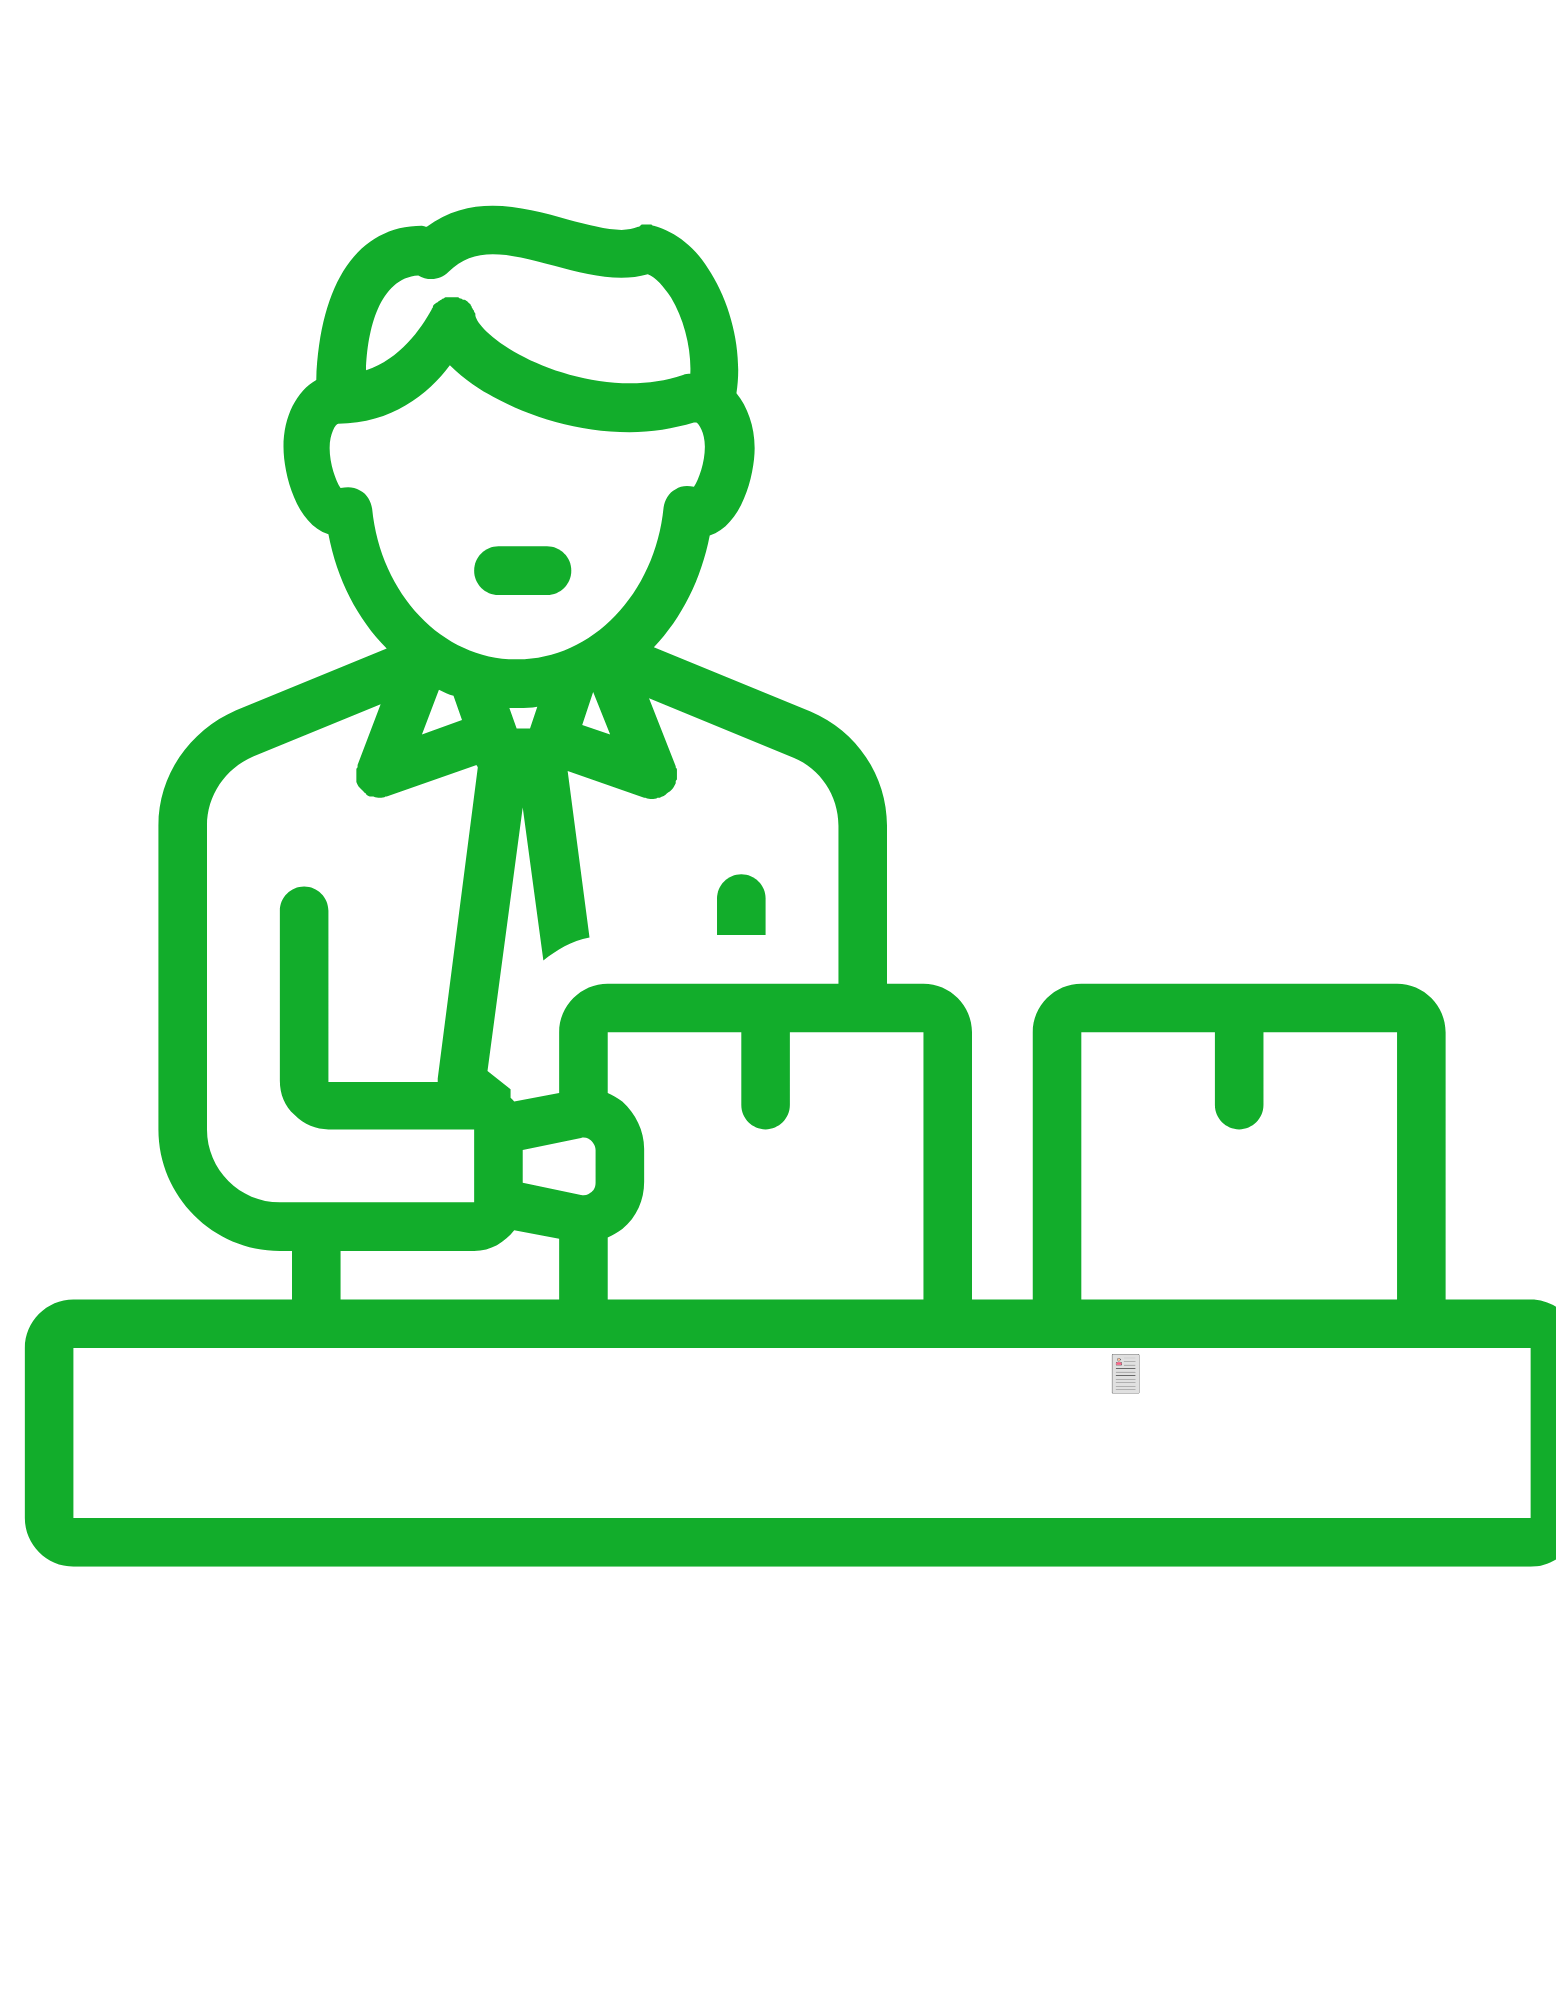
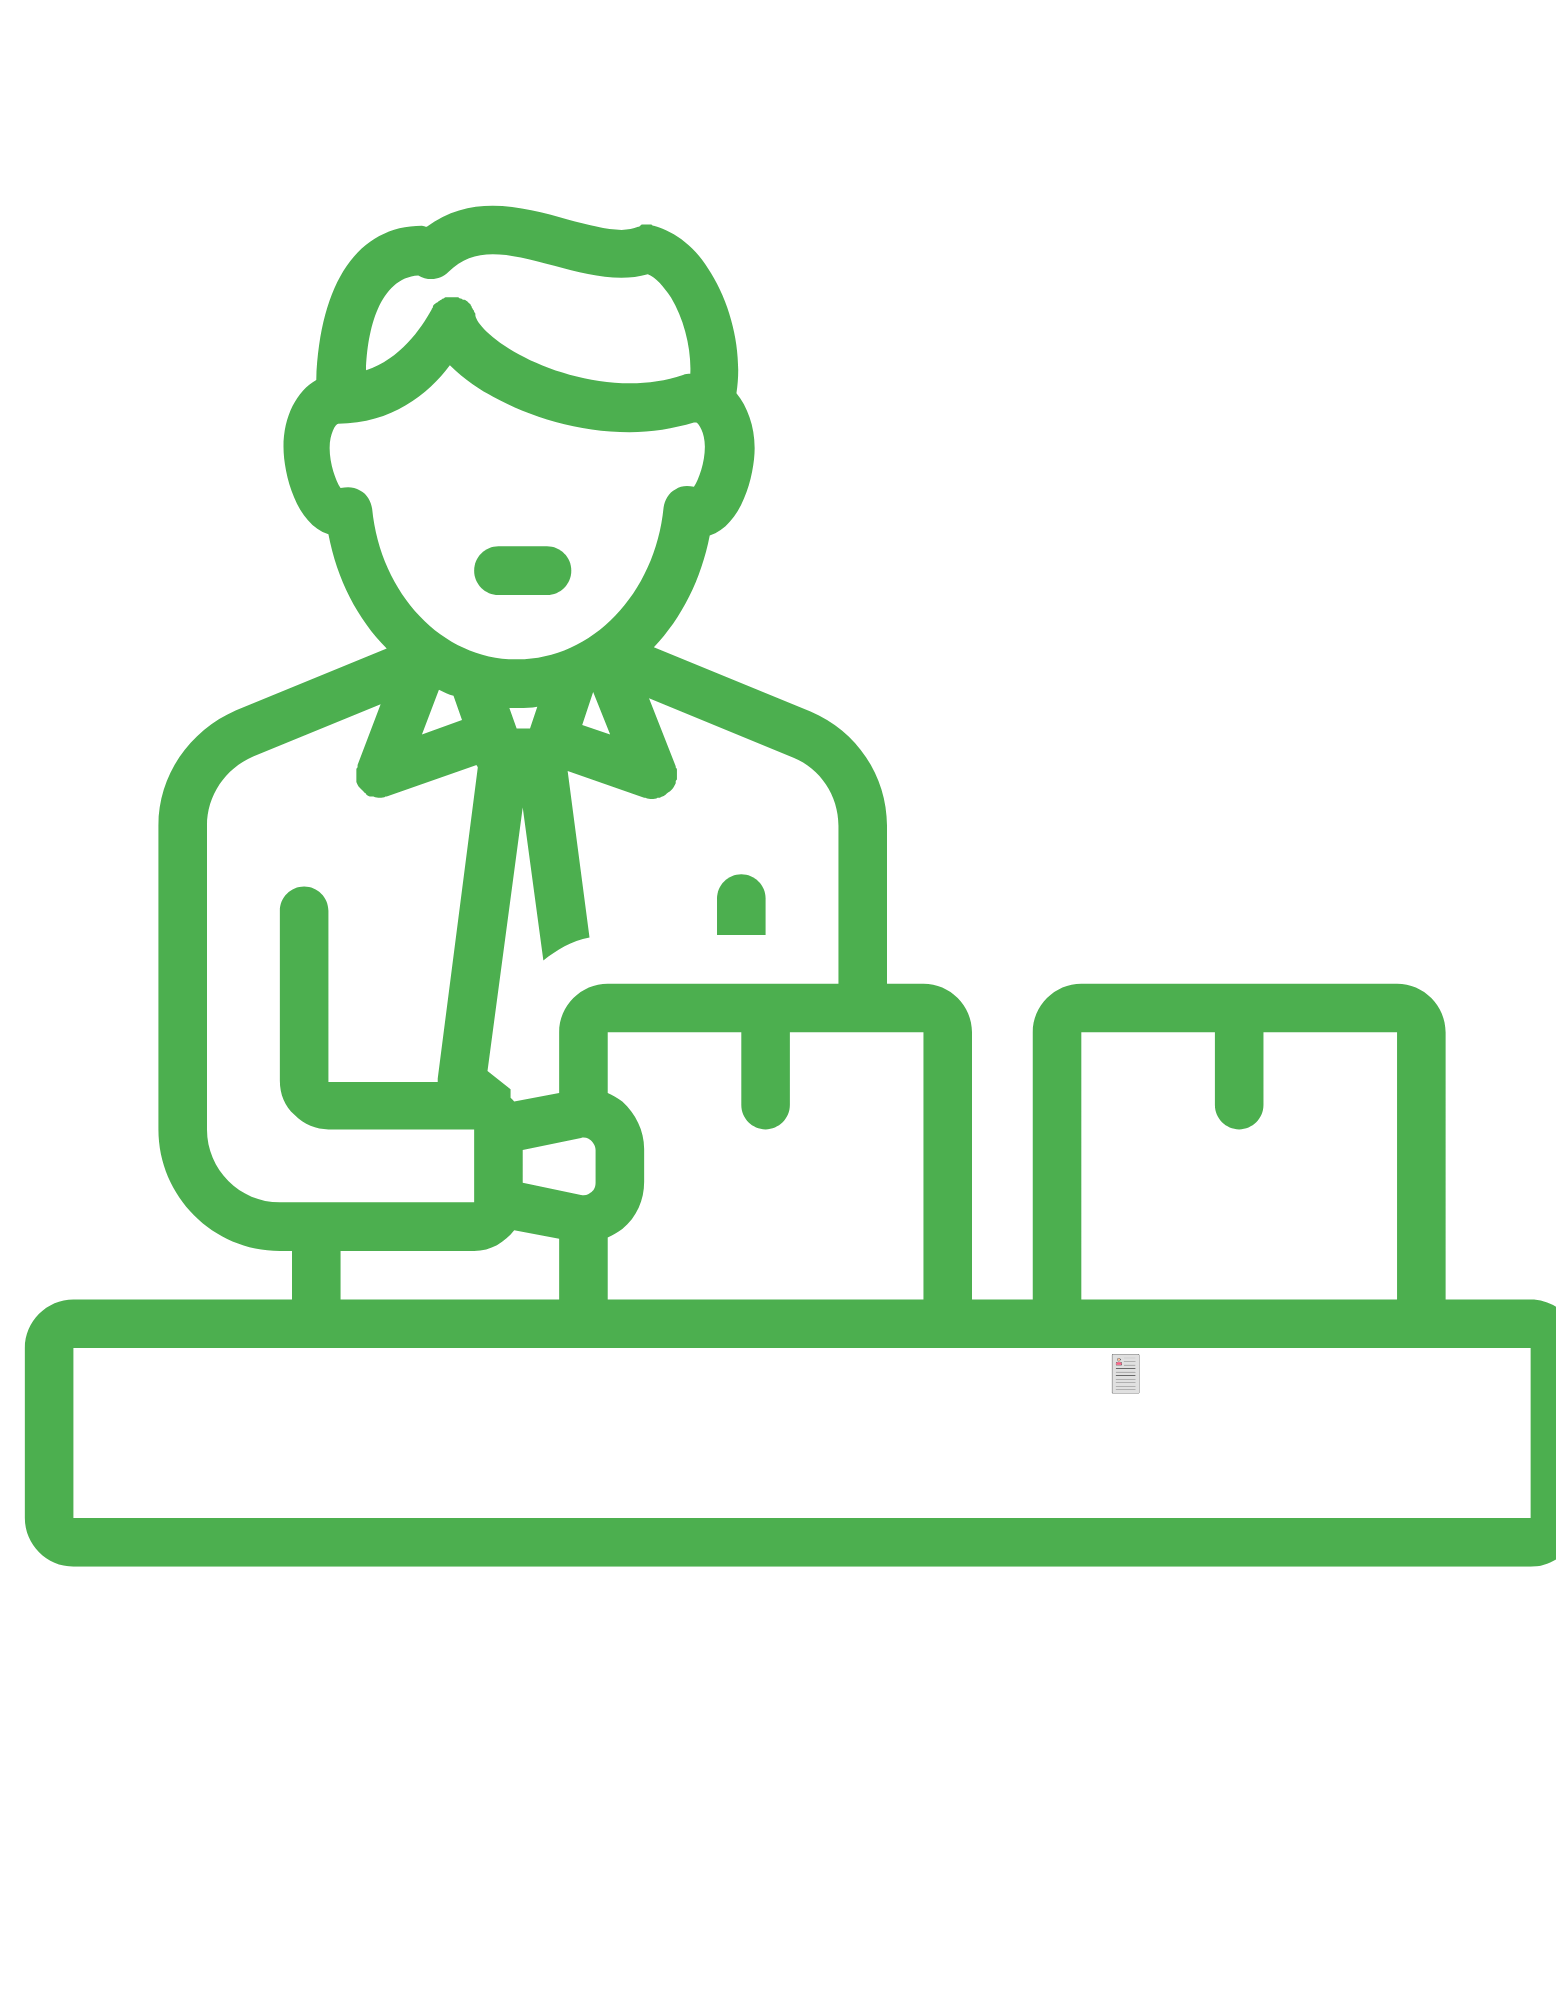
color fixes of images

Changed region(s): [[0.0, 0.093, 1.0, 0.806]]

diff --git a/src/components/Hero.js b/src/components/Hero.js
@@ -41,26 +41,14 @@ const Hero = () => {
   ];
 
   const [activeScreen, setActiveScreen] = useState(0);
-  const [intervalId, setIntervalId] = useState(null);
 
   useEffect(() => {
-    const id = setInterval(() => {
+    const interval = setInterval(() => {
       setActiveScreen((prev) => (prev === screens.length - 1 ? 0 : prev + 1));
     }, 5000); // Auto-advance every 5 seconds
 
-    setIntervalId(id);
-
-    return () => clearInterval(id);
+    return () => clearInterval(interval);
   }, [screens.length]);
-
-  const handleDotClick = (index) => {
-    setActiveScreen(index);
-    clearInterval(intervalId); // Clear existing interval
-    const id = setInterval(() => {
-      setActiveScreen((prev) => (prev === screens.length - 1 ? 0 : prev + 1));
-    }, 5000); // Restart auto-advance
-    setIntervalId(id); // Store new interval ID
-  };
 
   return (
     <div className="relative h-[599px] max-w-[1440px] mx-auto text-black bg-[#F5F7FA]">
@@ -100,7 +88,7 @@ const Hero = () => {
         <Dots
           screens={screens}
           activeScreen={activeScreen}
-          setActiveScreen={handleDotClick} 
+          setActiveScreen={setActiveScreen}
         />
       </div>
     </div>
